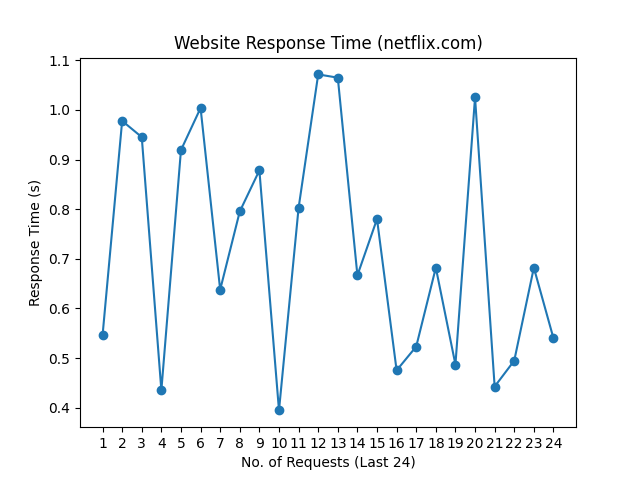
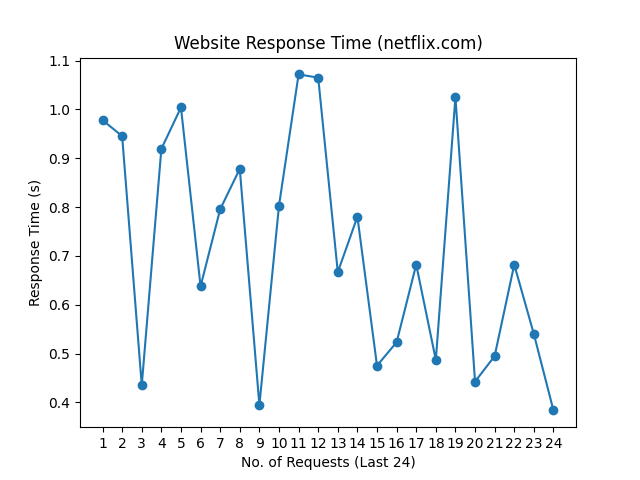
update README.md, history and graph

diff --git a/README.md b/README.md
@@ -1,10 +1,10 @@
 # Web Monitoring
 
-Last Checked: 04/03/2024 09:00
+Last Checked: 05/03/2024 08:59
 
 | Website | Response Time (s) | Status | Avg Uptime (%) |
 |---------|-------------------|--------|----------------|
 | www.thiswebsiteisdown.net | 0 <br> <img src="graph/thiswebsiteisdown.net.png" alt="Graph" width="200" height="200">  | ❌ Down | 0.00 |
-| www.netflix.com | 0.539920 <br> <img src="graph/netflix.com.png" alt="Graph" width="200" height="200">  | ✅ Up | 100.00 |
-| www.google.com | 0.060185 <br> <img src="graph/google.com.png" alt="Graph" width="200" height="200">  | ✅ Up | 100.00 |
-| www.facebook.com | 0.147652 <br> <img src="graph/facebook.com.png" alt="Graph" width="200" height="200">  | ✅ Up | 100.00 |
+| www.netflix.com | 0.383517 <br> <img src="graph/netflix.com.png" alt="Graph" width="200" height="200">  | ✅ Up | 100.00 |
+| www.google.com | 0.069959 <br> <img src="graph/google.com.png" alt="Graph" width="200" height="200">  | ✅ Up | 100.00 |
+| www.facebook.com | 0.299652 <br> <img src="graph/facebook.com.png" alt="Graph" width="200" height="200">  | ✅ Up | 100.00 |
